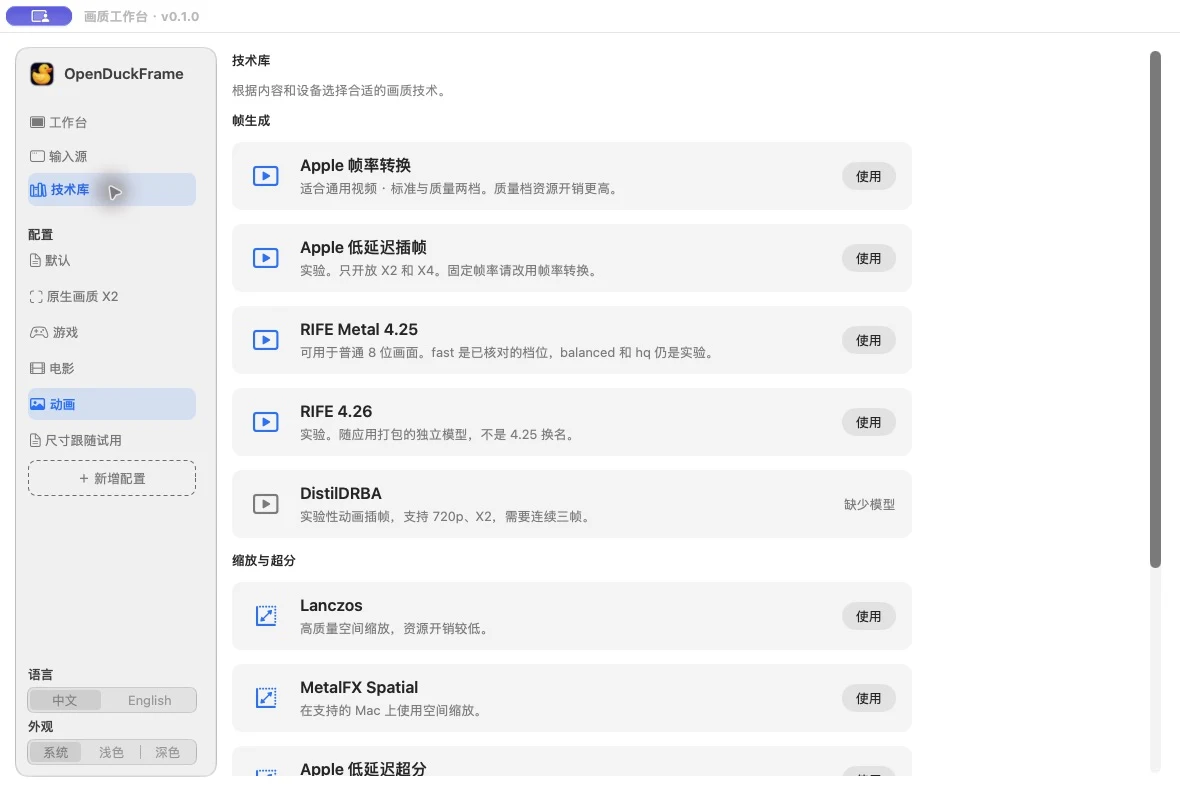
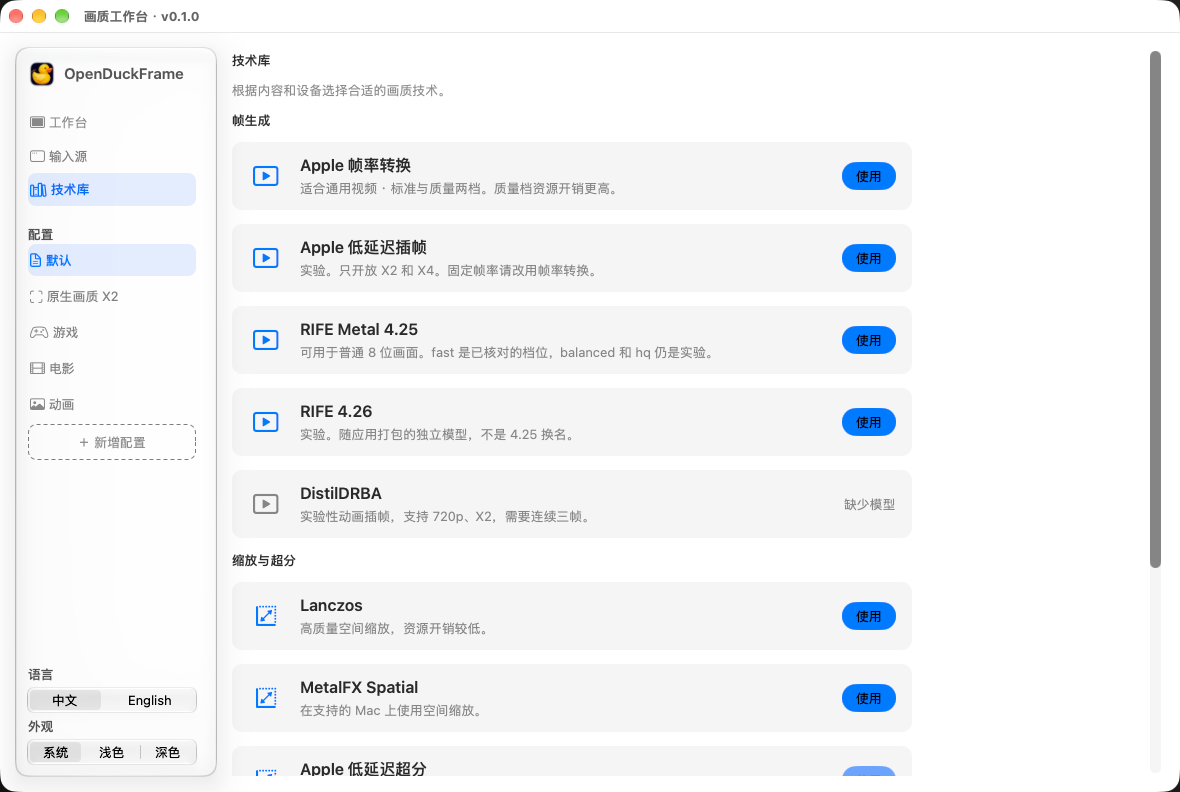
Link the website to community downloads

diff --git a/index.html b/index.html
@@ -162,7 +162,7 @@
           <a class="btn solid" href="https://github.com/Jun-bao/OpenDuckFrame/releases/latest/download/OpenDuckFrame.dmg" data-link="dmg"><span data-i18n="downloadDmg">下载 .dmg</span></a>
         </div>
         <ol class="steps">
-          <li><b data-i18n="s1t">拖进“应用程序”</b><span data-i18n="s1d">打开下载的 .dmg，把 OpenDuckFrame 拖到“应用程序”文件夹。</span></li>
+          <li><b data-i18n="s1t">拖进“应用程序”</b><span data-i18n="s1d">打开下载的 .dmg，把 OpenDuckFrame 拖到“应用程序”文件夹。社区版未经过 Apple 公证，首次打开可能被 macOS 拦截。</span></li>
           <li><b data-i18n="s2t">允许屏幕录制</b><span data-i18n="s2d">第一次选窗口时，在 系统设置 › 隐私与安全性 › 屏幕录制 里打开 OpenDuckFrame。</span></li>
           <li><b data-i18n="s3t">选窗口，开始补帧</b><span data-i18n="s3d">在画质工作台选来源窗口，点“开始增强”，3 秒后输出画面盖在原窗口上。</span></li>
         </ol>
@@ -196,7 +196,7 @@
         <details><summary data-i18n="q4">支持全屏吗？</summary><p data-i18n="a4">目前支持普通窗口和网页全屏。macOS 原生全屏还在开发中。</p></details>
         <details><summary data-i18n="q5">画面会上传吗？</summary><p data-i18n="a5">不会。采集、识别和补帧都在你的 Mac 上完成，也不需要账号。</p></details>
         <details><summary data-i18n="q6">多少钱？</summary><p data-i18n="a6">免费。源代码以 MIT 许可公开在 GitHub 上。</p></details>
-        <details><summary data-i18n="q7">打开时提示“无法验证开发者”怎么办？</summary><p data-i18n="a7">正式版安装包经过 Apple 公证，可以直接打开。如果你用的是自己从源码构建的版本，在“应用程序”里按住 Control 点 OpenDuckFrame，选“打开”即可。</p></details>
+        <details><summary data-i18n="q7">打开时提示“无法验证开发者”怎么办？</summary><p data-i18n="a7">当前社区版未经过 Apple 公证。确认信任下载来源后，可在“系统设置 → 隐私与安全性”中查看拦截提示，自行决定是否允许打开。应用不会替你修改系统安全设置。</p></details>
       </div>
     </div>
   </section>

diff --git a/main.js b/main.js
@@ -53,7 +53,7 @@ const EN = {
   usesNote: "Pictures are illustrations.",
   dlTitle: "Download", dlBody: "Release builds are published on GitHub, together with every earlier version.", allReleases: "All releases",
   reqs: "macOS 14 or later · Mac with Apple silicon", downloadDmg: "Download .dmg",
-  s1t: "Drag to Applications", s1d: "Open the downloaded .dmg and drag OpenDuckFrame into the Applications folder.",
+  s1t: "Drag to Applications", s1d: "Open the downloaded .dmg and drag OpenDuckFrame into Applications. This community build is not Apple notarized; macOS may block its first launch.",
   s2t: "Allow screen recording", s2d: "The first time you choose a window, turn on OpenDuckFrame in System Settings › Privacy & Security › Screen Recording.",
   s3t: "Choose a window and start", s3d: "Pick the source in the Quality Workbench and press Start. After three seconds the output covers the original window.",
   notesTitle: "In this version", limitsTitle: "Known limits",
@@ -69,7 +69,7 @@ const EN = {
   q4: "Does it work in full screen?", a4: "Normal windows and full-page video work today. macOS full screen is in development.",
   q5: "Is anything uploaded?", a5: "No. Capture, detection and frame generation all run on your Mac, and there is no account.",
   q6: "How much does it cost?", a6: "Nothing. The source code is on GitHub under the MIT License.",
-  q7: "macOS says it can't verify the developer.", a7: "Release builds are notarized by Apple and open normally. If you built it yourself, Control-click OpenDuckFrame in Applications and choose Open.",
+  q7: "macOS says it can't verify the developer.", a7: "This community build is not Apple notarized. If you trust the download, review its blocked-launch message in System Settings → Privacy & Security and decide whether to allow it. The app does not change system security settings.",
   openTitle: "Built in the open", openBody: "OpenDuckFrame is free and MIT licensed. A star helps more people find it.",
   footReleases: "Releases", footPrivacy: "Privacy", footLicense: "License",
 };

diff --git a/README.md b/README.md
@@ -20,8 +20,8 @@ python3 -m http.server 4178 --bind 127.0.0.1
 链接和版本号只在 `main.js` 顶部的 `SITE` 里改。
 
 - `SITE.version`：页面上显示的版本号。
-- `SITE.links.dmg`：指向 `releases/latest/download/OpenDuckFrame.dmg`。GitHub 会把它解析到最新 Release 里名为 `OpenDuckFrame.dmg` 的附件。只要每次发版都带上这个固定文件名的附件，就不用改链接。产品仓库里的 `Scripts/publish_github_release.sh` 会自动上传它。
-- 第一个 Release 发出来之前，“下载 Mac 版”按钮会返回 404。
+- `SITE.links.dmg`：指向 `releases/latest/download/OpenDuckFrame.dmg`。GitHub 会把它解析到最新 Release 里名为 `OpenDuckFrame.dmg` 的附件。只要每次发版都带上这个固定文件名的附件，就不用改链接。产品仓库里的 `Scripts/community_release.py` 会自动上传它。
+- 当前提供 0.1.0 社区版（未经过 Apple 公证），支持签名验证的应用内更新。
 
 ## 内容与资源
 
